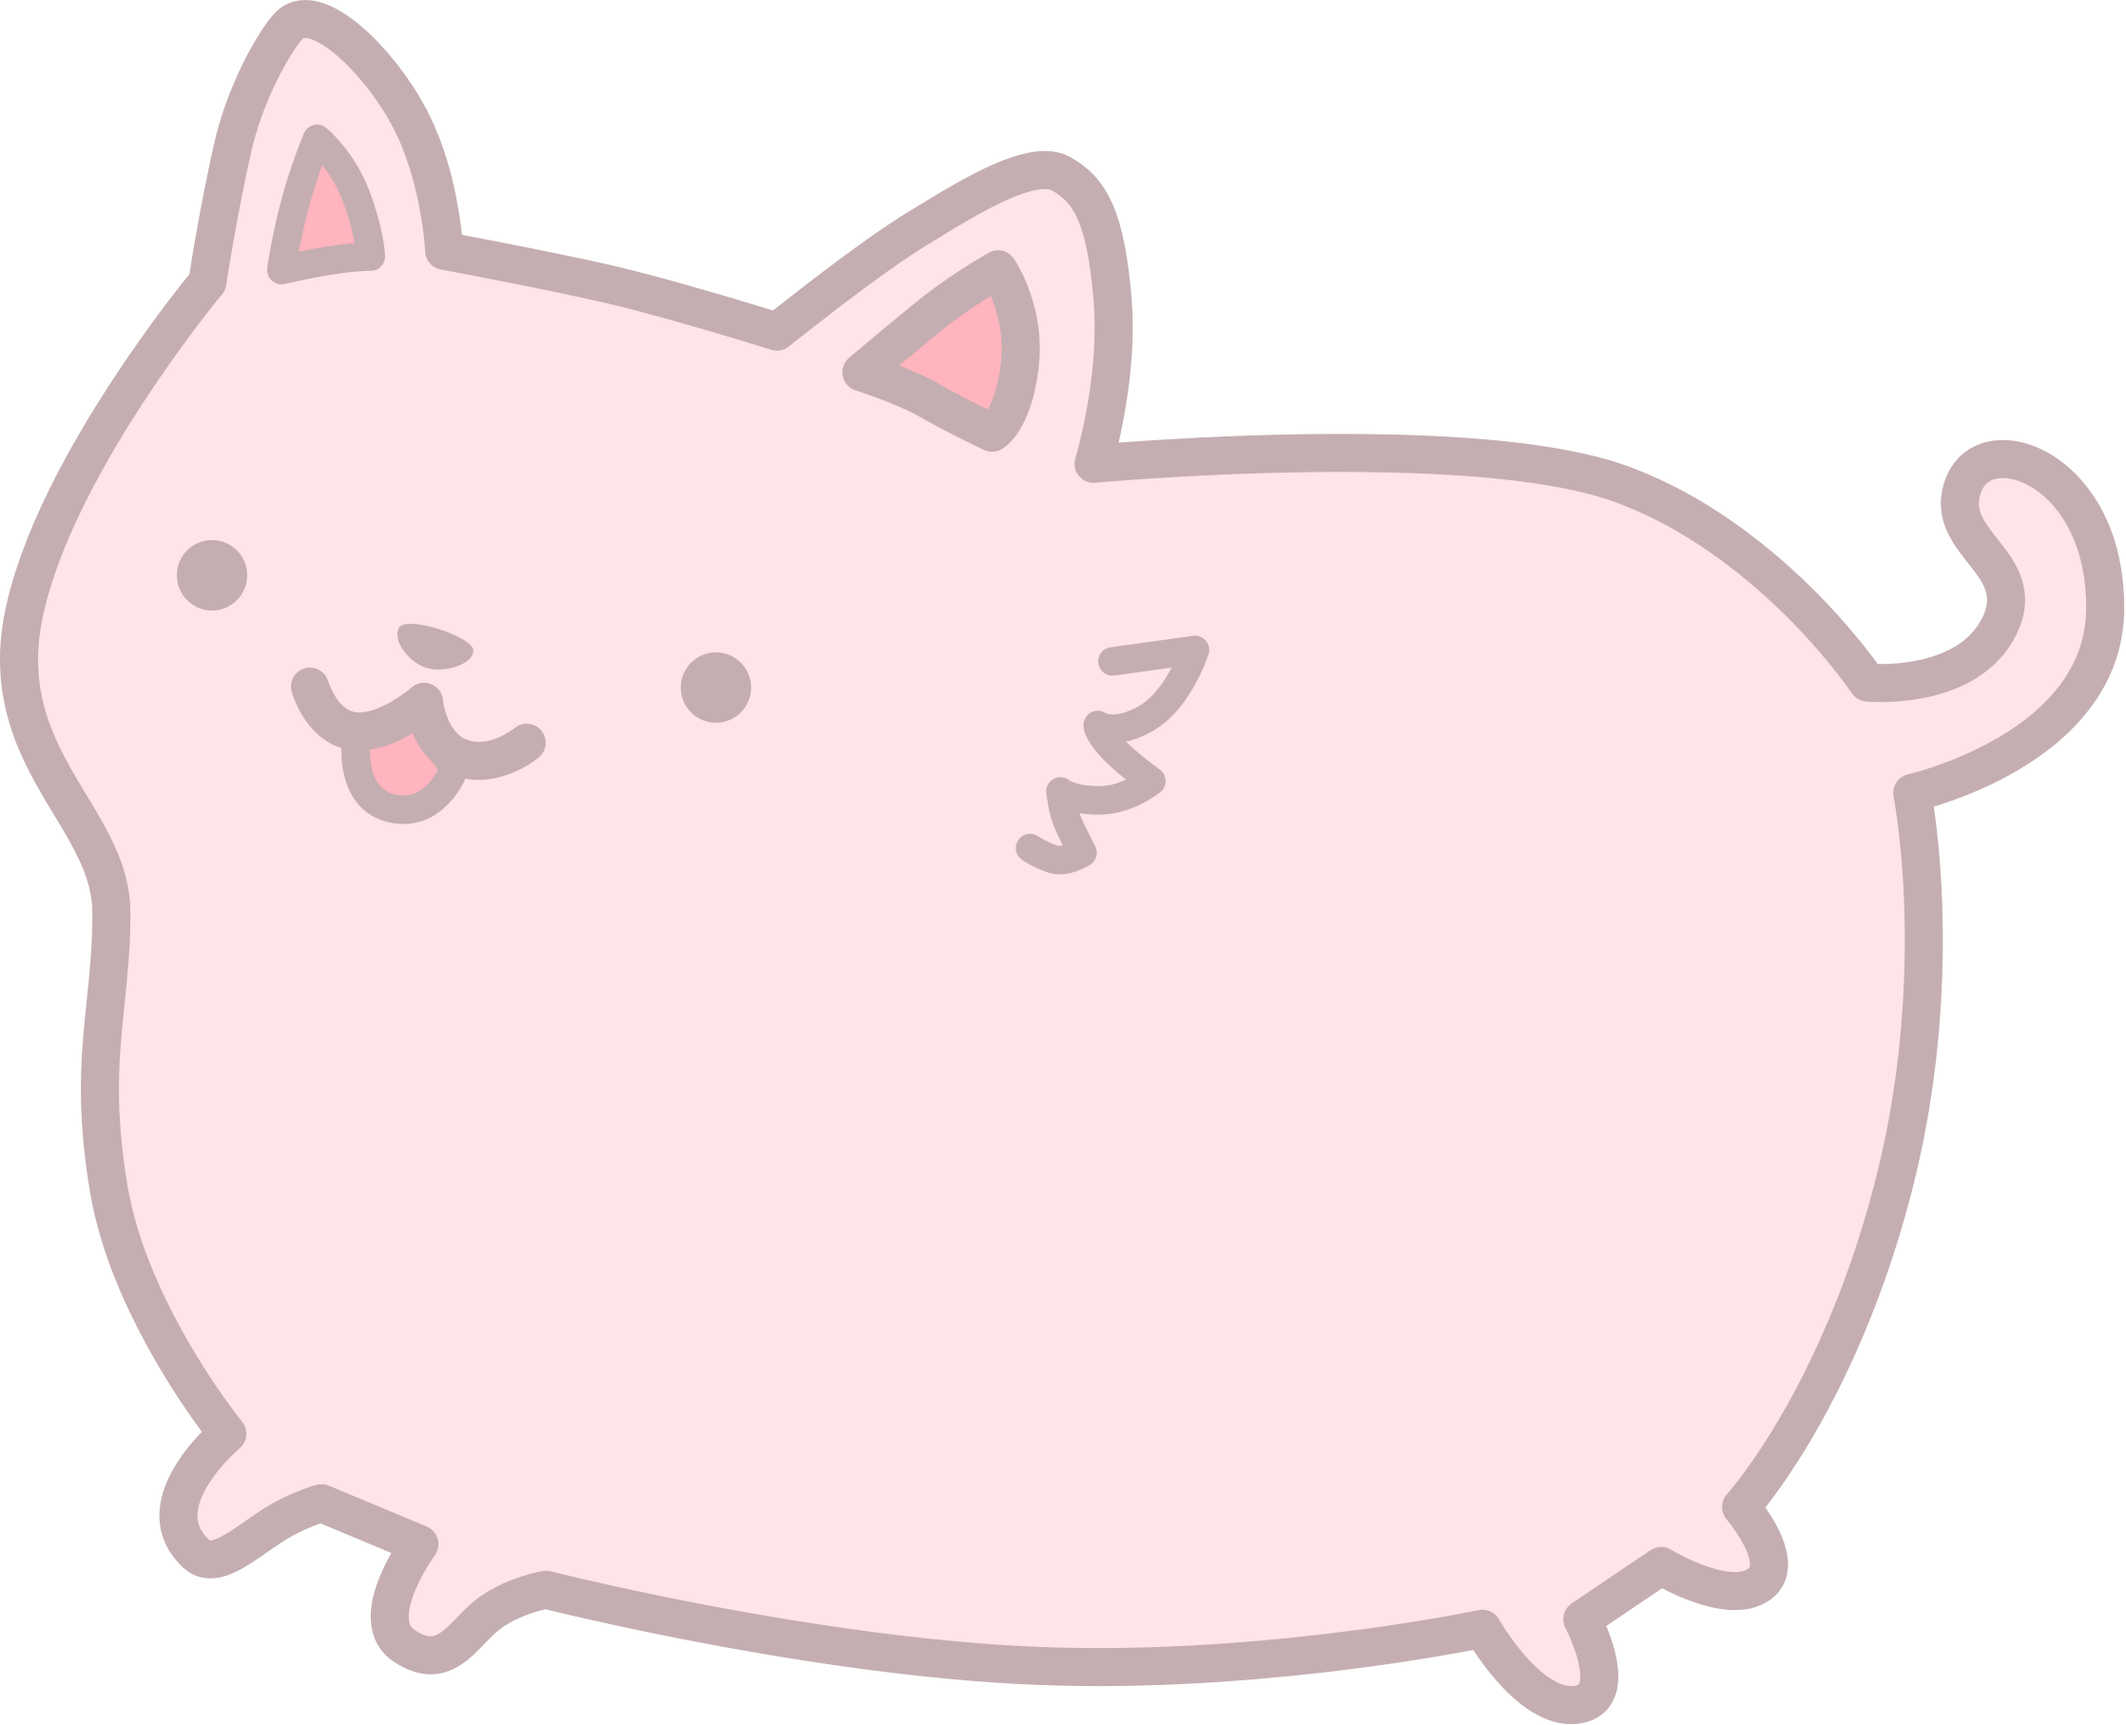
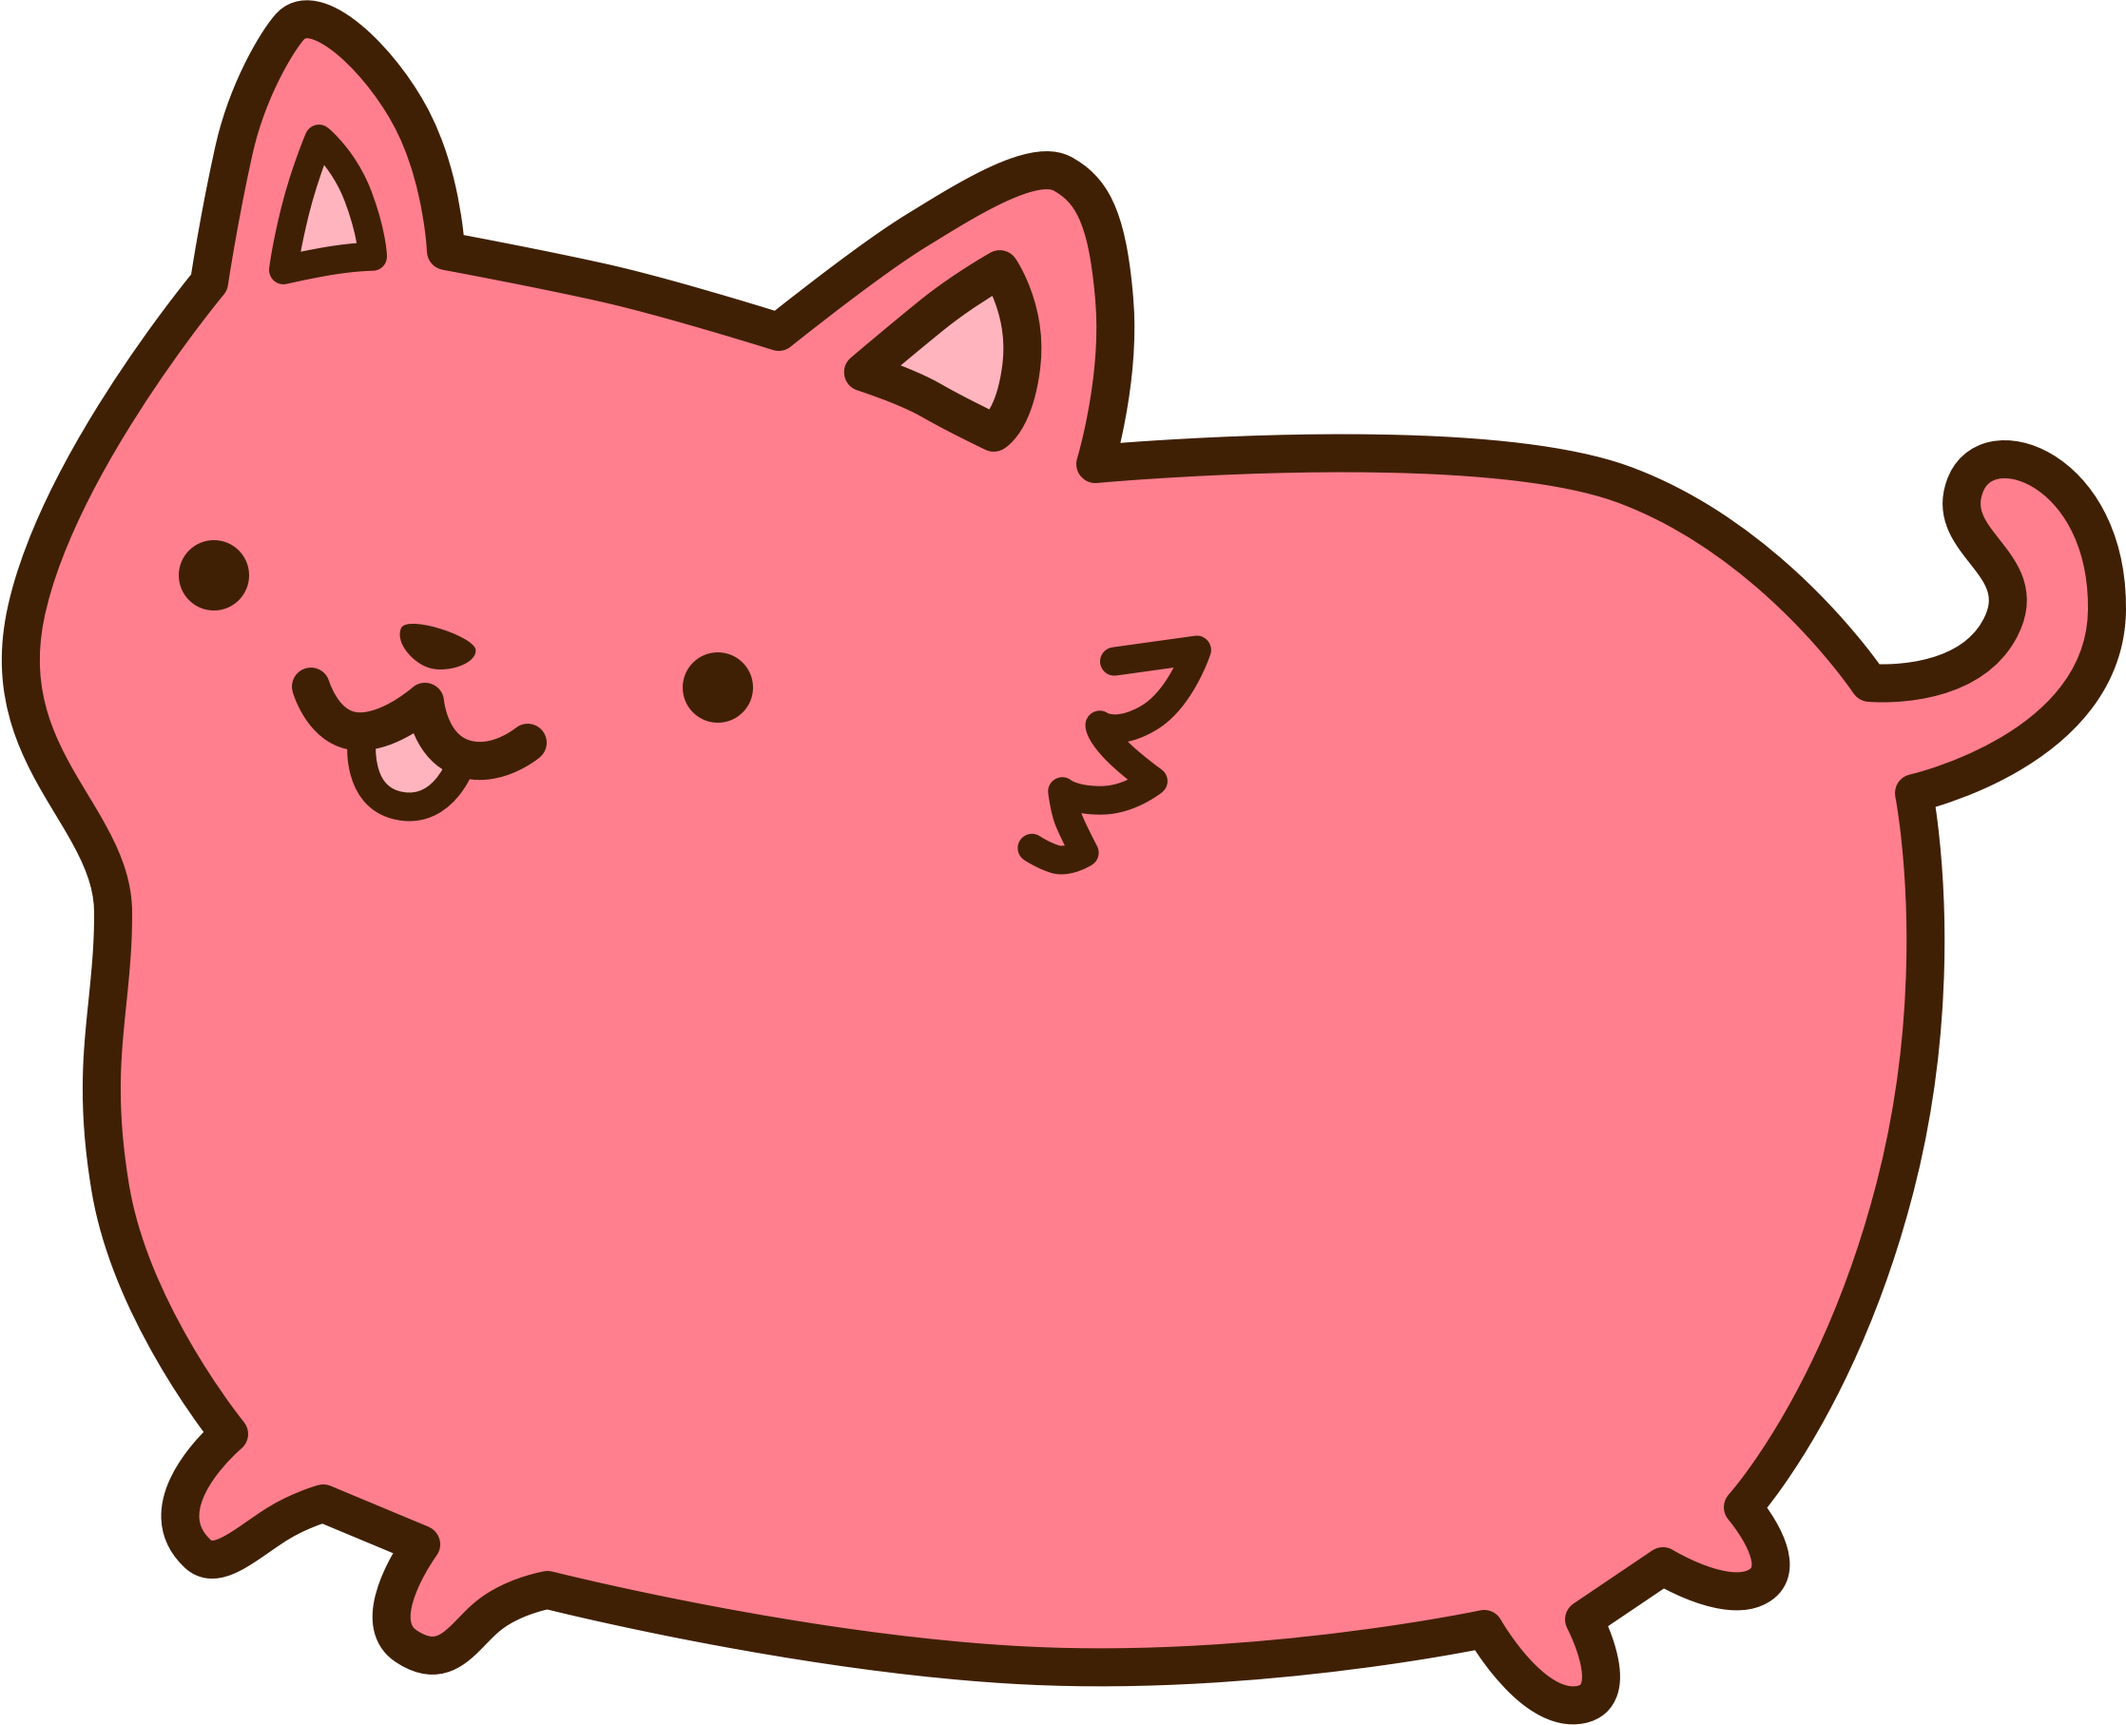
adding more pudgybeans and updating color to be more vibrant

diff --git a/index.html b/index.html
@@ -24,7 +24,11 @@
 				"images/yellowwalking.png",
 				"images/bluewalking.png",
 				"images/redwalking.png",
-				"images/greenwalking.png"
+				"images/greenwalking.png",
+				"images/yellowpainting.png",
+				"images/bluepainting.png",
+				"images/redpainting.png",
+				"images/greenpainting.png"
 			];
 
 			$(document).ready(function() {
